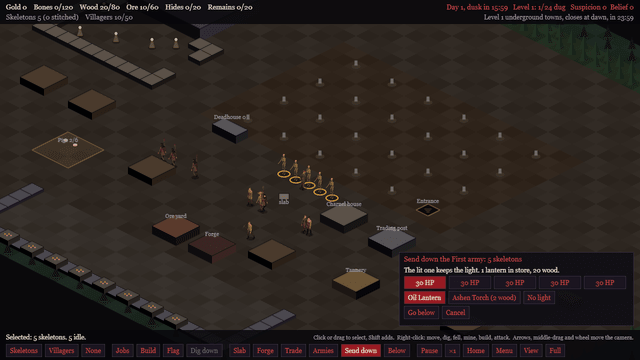
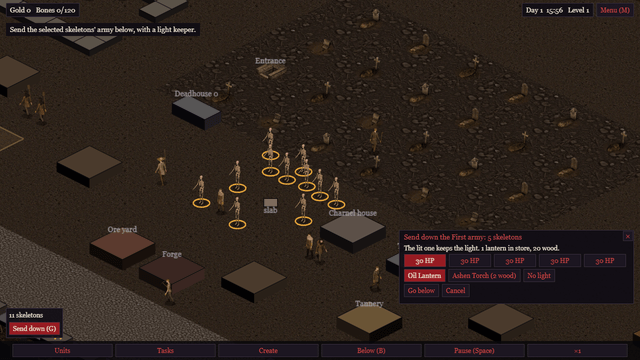
Deploy f018aec5708c08dd3b07fc4f0f6a0eebada5c874

diff --git a/build/assets/app-Bf8XTX0M.css b/build/assets/app-Bf8XTX0M.css
@@ -1,0 +1,1 @@
+:root{--color-bg:#0e0f13;--color-surface:#171922;--color-text:#e7e8ec;--color-text-muted:#9a9db0;--color-accent:#7c5cff;--color-border:#2a2d3a;--font-sans:system-ui, -apple-system, "Segoe UI", Roboto, sans-serif;--font-mono:"SFMono-Regular", Consolas, "Liberation Mono", Menlo, monospace;--max-width:72rem}*{box-sizing:border-box}body{background:var(--color-bg);color:var(--color-text);font-family:var(--font-sans);margin:0;line-height:1.6}a{color:var(--color-accent);text-decoration:none}a:hover{text-decoration:underline}h1,h2,h3{line-height:1.2}main{max-width:var(--max-width);margin:0 auto;padding:0 1.5rem 4rem}.site-nav{max-width:var(--max-width);flex-wrap:wrap;justify-content:space-between;align-items:center;gap:1rem;margin:0 auto;padding:1.5rem;display:flex}.site-nav__brand{font-family:var(--font-mono);color:var(--color-text);font-weight:700}.site-nav nav{flex-wrap:wrap;align-items:center;gap:1.5rem;display:flex}.site-nav__cta{border:1px solid var(--color-accent);border-radius:.4rem;padding:.4rem .9rem}.site-nav__admin{color:var(--color-text-muted);align-items:center;display:inline-flex}.site-nav__admin:hover{color:var(--color-accent)}.site-nav__toggle-input{display:none}.site-nav__toggle{cursor:pointer;flex-direction:column;justify-content:center;gap:.3rem;width:2.25rem;height:2.25rem;display:none}.site-nav__toggle span{background:var(--color-text);border-radius:1px;height:2px;display:block}@media (width<=40rem){.site-nav__toggle{display:flex}.site-nav nav{flex-direction:column;flex-basis:100%;order:3;align-items:flex-start;gap:1rem;padding-top:1rem;display:none}.site-nav__toggle-input:checked~nav{display:flex}}.button{border:1px solid var(--color-border);color:var(--color-text);border-radius:.4rem;padding:.7rem 1.4rem;font-weight:600;display:inline-block}.button:hover{border-color:var(--color-accent);text-decoration:none}.button--primary{background:var(--color-accent);border-color:var(--color-accent);color:#0e0f13}.hero{border-bottom:1px solid var(--color-border);grid-template-columns:3fr 2fr;align-items:center;gap:2rem;padding:4rem 0;display:grid}.hero__eyebrow{font-family:var(--font-mono);color:var(--color-accent);margin:0 0 .5rem}.hero h1{margin:0 0 1rem;font-size:clamp(2rem,5vw,3.5rem)}.hero__value-prop{color:var(--color-text-muted);max-width:40rem;margin:0 0 1.5rem}.hero__panel{font-family:var(--font-mono);background:var(--color-surface);border:1px solid var(--color-border);border-radius:.6rem;padding:1.25rem 1.5rem;font-size:.9rem}.hero__panel-title{color:var(--color-text-muted);margin:0 0 .75rem}.hero__panel-line{color:var(--color-accent);margin:.35rem 0}@media (width<=48rem){.hero{grid-template-columns:1fr;padding:2.5rem 0}.hero__panel{display:none}}.services__grid,.services-teaser__grid{grid-template-columns:repeat(auto-fit,minmax(16rem,1fr));gap:1.5rem;margin:2rem 0;display:grid}.service-card{background:var(--color-surface);border:1px solid var(--color-border);border-radius:.6rem;padding:1.5rem}.service-card__outcome{font-family:var(--font-mono);color:var(--color-text-muted);font-size:.85rem}.services-teaser{text-align:center;padding:3rem 0}.tech-stack__grid{grid-template-columns:repeat(auto-fit,minmax(12rem,1fr));gap:2rem;margin:2rem 0;display:grid}.tech-stack__category h2{font-family:var(--font-mono);color:var(--color-accent);font-size:1rem}.tech-stack__category ul{margin:0;padding:0;list-style:none}.tech-stack__category li{border-bottom:1px solid var(--color-border);padding:.25rem 0}.projects__grid{gap:2rem;margin:2rem 0;display:grid}.project-card{background:var(--color-surface);border:1px solid var(--color-border);border-radius:.6rem;padding:1.5rem}.project-card__images{grid-template-columns:repeat(auto-fit,minmax(10rem,1fr));gap:.75rem;margin:1rem 0;display:grid}.project-card__images picture{display:block}.project-card__images img{border:1px solid var(--color-border);cursor:zoom-in;border-radius:.4rem;width:100%;height:auto;display:block}.eyebrow{font-family:var(--font-mono);color:var(--color-accent);margin:0 0 .5rem;font-size:.9rem}.section-intro{max-width:48rem;margin:3rem 0 2rem}.section-intro h2{margin:0 0 .75rem;font-size:clamp(1.6rem,3.5vw,2.25rem)}.section-intro p{color:var(--color-text-muted)}.section-intro .section-intro__lead{color:var(--color-text);font-size:1.1rem}.game-card{--game-accent:var(--color-accent);background:var(--color-surface);border:1px solid var(--color-border);border-top:3px solid var(--game-accent);border-radius:.6rem;margin:0 0 3rem;scroll-margin-top:1.5rem;overflow:hidden}.game-card--tethered-darkness,.game-tile--tethered-darkness{--game-accent:#e9b44c}.game-card--village-of-suffering,.game-tile--village-of-suffering{--game-accent:#d9434d}.game-card--assimilate,.game-tile--assimilate{--game-accent:#a78bfa}.game-card--life-detected,.game-tile--life-detected{--game-accent:#ff8f3a}.game-card__cover{background:#000;margin:0}.game-card__cover img{cursor:zoom-in;width:100%;height:auto;display:block}.game-card figcaption{font-family:var(--font-mono);color:var(--color-text-muted);margin-top:.4rem;font-size:.8rem}.game-card__cover figcaption{background:var(--color-bg);border-bottom:1px solid var(--color-border);margin:0;padding:.6rem 1.75rem}.game-card__body{grid-template-columns:minmax(0,3fr) minmax(0,2fr);gap:2.5rem;padding:2rem 1.75rem;display:grid}.game-card__status{font-family:var(--font-mono);color:var(--color-text-muted);border:1px solid var(--color-border);border-radius:999px;align-items:center;gap:.5rem;margin:0 0 1rem;padding:.2rem .75rem;font-size:.8rem;display:inline-flex}.game-card__status:before,.game-tile__status:before{content:"";background:#4ade80;border-radius:50%;flex:none;width:.5rem;height:.5rem;box-shadow:0 0 .5rem #4ade80}.game-card__status--in-development:before,.game-tile__status--in-development:before{background:var(--game-accent);box-shadow:0 0 .5rem var(--game-accent)}.game-card h3{margin:0;font-size:clamp(1.75rem,4vw,2.5rem)}.game-card__genre{font-family:var(--font-mono);color:var(--game-accent);margin:.35rem 0 1.5rem}.game-card__hook{border-left:3px solid var(--game-accent);margin:0 0 1.5rem;padding-left:1rem}.game-card__hook p{color:var(--color-text);margin:0;font-size:1.2rem;font-style:italic;line-height:1.5}.game-card__pitch>p:not([class]){color:var(--color-text-muted)}.game-card__pitch .button{margin-top:.75rem}.button--game{background:var(--game-accent);border-color:var(--game-accent);color:#0e0f13}.button--game:hover{border-color:var(--color-text)}.game-card__features{align-content:start;gap:1.1rem;margin:0;padding:0;list-style:none;display:grid}.game-card__features li{border-left:1px solid var(--color-border);color:var(--color-text-muted);padding-left:1rem;font-size:.95rem}.game-card__features strong{color:var(--color-text);font-size:1rem;display:block}.game-card__gallery{grid-template-columns:repeat(auto-fit,minmax(13rem,1fr));gap:1.25rem;padding:0 1.75rem;display:grid}.game-card__gallery figure{margin:0}.game-card__gallery img{border:1px solid var(--color-border);cursor:zoom-in;border-radius:.4rem;width:100%;height:auto;display:block}.game-card__tech{background:var(--color-bg);border:1px solid var(--color-border);border-radius:.6rem;margin:2rem 1.75rem 1.75rem;padding:1.25rem 1.5rem}.game-card__tech h4{font-family:var(--font-mono);color:var(--game-accent);margin:0 0 .5rem;font-size:.85rem;font-weight:400}.game-card__tech p{color:var(--color-text-muted);margin:0;font-size:.95rem}@media (width<=48rem){.game-card__body{grid-template-columns:1fr;gap:2rem;padding:1.5rem 1.25rem}.game-card__cover figcaption,.game-card__gallery{padding-left:1.25rem;padding-right:1.25rem}.game-card__tech{margin:1.5rem 1.25rem 1.25rem}}.games-teaser{--game-accent:var(--color-accent);border-top:1px solid var(--color-border);text-align:center;padding:3rem 0}.games-teaser h2{margin:0 0 .75rem;font-size:clamp(1.6rem,3.5vw,2.25rem)}.games-teaser__lead{color:var(--color-text-muted);max-width:40rem;margin:0 auto}.games-teaser__grid{text-align:left;grid-template-columns:repeat(auto-fit,minmax(16rem,1fr));gap:1.5rem;margin:2rem 0;display:grid}.game-tile{background:var(--color-surface);border:1px solid var(--color-border);border-top:3px solid var(--game-accent);color:var(--color-text);border-radius:.6rem;flex-direction:column;transition:transform .15s,border-color .15s;display:flex;overflow:hidden}.game-tile:hover{border-color:var(--game-accent);text-decoration:none;transform:translateY(-2px)}.game-tile img{aspect-ratio:16/9;object-fit:cover;width:100%;height:auto;display:block}.game-tile__body{flex-direction:column;gap:.35rem;padding:1.1rem 1.25rem 1.4rem;display:flex}.game-tile__status{font-family:var(--font-mono);color:var(--color-text-muted);align-items:center;gap:.45rem;font-size:.75rem;display:inline-flex}.game-tile__name{font-size:1.3rem;font-weight:700;line-height:1.2}.game-tile__genre{font-family:var(--font-mono);color:var(--game-accent);font-size:.85rem}.game-tile__hook{color:var(--color-text-muted);margin-top:.4rem;font-size:.95rem;font-style:italic}@media (prefers-reduced-motion:reduce){.game-tile{transition:none}.game-tile:hover{transform:none}}.experience__grid{grid-template-columns:repeat(auto-fit,minmax(16rem,1fr));gap:1.5rem;margin:1.5rem 0 3rem;display:grid}.experience__years{font-family:var(--font-mono);color:var(--color-accent);margin-bottom:.5rem;font-size:.85rem;display:block}.experience__description{white-space:pre-line}.experience__courses{margin:1rem 0 0;padding:0;list-style:none}.experience__courses li{border-top:1px solid var(--color-border);padding:.5rem 0;font-size:.9rem}.experience__course-links{gap:.75rem;margin-left:.5rem;font-size:.8rem;display:inline-flex}.contact__direct-links{gap:1.5rem;margin-top:2rem;display:flex}.contact-form{flex-direction:column;gap:1.25rem;max-width:32rem;margin-top:2rem;display:flex}.contact-form__field{flex-direction:column;gap:.4rem;display:flex}.contact-form__field label{font-family:var(--font-mono);color:var(--color-text-muted);font-size:.85rem}.contact-form__field input,.contact-form__field textarea{background:var(--color-surface);border:1px solid var(--color-border);color:var(--color-text);border-radius:.4rem;padding:.6rem .8rem;font-family:inherit;font-size:1rem}.contact-form__field input:focus,.contact-form__field textarea:focus{border-color:var(--color-accent);outline:none}.contact-form button{cursor:pointer;align-self:flex-start}.contact-form__error{color:#ff6b6b;margin:0;font-size:.85rem}.contact-form__success{color:var(--color-accent);font-family:var(--font-mono);margin-top:2rem}.lightbox{z-index:100;cursor:zoom-out;background:#0e0f13e6;justify-content:center;align-items:center;display:flex;position:fixed;inset:0}.lightbox__figure{cursor:default;flex-direction:column;align-items:center;gap:.75rem;margin:0;display:flex}.lightbox__image{border:1px solid var(--color-border);border-radius:.4rem;max-width:90vw;max-height:80vh}.lightbox__caption{max-width:min(90vw,48rem);font-family:var(--font-mono);color:var(--color-text-muted);text-align:center;font-size:.85rem}.lightbox__close{border:1px solid var(--color-border);color:var(--color-text);cursor:pointer;background:0 0;border-radius:50%;width:2.5rem;height:2.5rem;font-size:1.5rem;line-height:1;position:absolute;top:1.5rem;right:1.5rem}.admin__links{gap:1rem;margin:1.5rem 0;display:flex}.admin__list{flex-direction:column;gap:1rem;margin:2rem 0;display:flex}.admin__row{background:var(--color-surface);border:1px solid var(--color-border);border-radius:.6rem;flex-wrap:wrap;justify-content:space-between;align-items:center;gap:1rem;padding:1rem 1.5rem;display:flex}.admin__row-actions{align-items:center;gap:1rem;display:flex}.admin__delete-button{color:#ff6b6b;cursor:pointer;font:inherit;background:0 0;border:none;padding:0;text-decoration:underline}.admin__links-inline{gap:1rem;margin-top:.35rem;font-size:.85rem;display:flex}.admin form{max-width:32rem;margin:1.5rem 0}.admin form>div{margin-bottom:1.25rem}.admin form label{font-family:var(--font-mono);color:var(--color-text-muted);margin-bottom:.4rem;font-size:.85rem;display:block}.admin form input,.admin form textarea{background:var(--color-bg);border:1px solid var(--color-border);width:100%;color:var(--color-text);border-radius:.4rem;padding:.6rem .8rem;font-family:inherit;font-size:1rem}.admin form input:focus,.admin form textarea:focus{border-color:var(--color-accent);outline:none}.admin form .form-help,.admin form small{color:var(--color-text-muted);margin-top:.3rem;font-size:.8rem;display:block}.admin form ul{color:#ff6b6b;margin:.3rem 0 0;padding-left:1.2rem;font-size:.85rem}.admin form button{margin-top:.5rem}.site-footer{border-top:1px solid var(--color-border);max-width:var(--max-width);text-align:center;color:var(--color-text-muted);margin:0 auto;padding:2rem 1.5rem}.site-footer__social,.site-footer__projects{flex-wrap:wrap;justify-content:center;gap:1.5rem;margin-bottom:.75rem;display:flex}.site-footer__copyright{font-family:var(--font-mono);margin:0;font-size:.8rem}

diff --git a/src/Content/PortfolioContent.php b/src/Content/PortfolioContent.php
@@ -110,7 +110,7 @@ class PortfolioContent
                 'name' => 'Tethered Darkness',
                 'genre' => 'Gothic horror JRPG',
                 'status' => 'playable',
-                'statusLabel' => 'Playable now: regions 1–4 of 6',
+                'statusLabel' => 'Playable now: start to finish, final art in progress',
                 'hook' => 'Every grave in Hollowmere has a lantern, and the lanterns keep the dead below. Tonight they are going out.',
                 'pitch' => [
                     'A disgraced knight, an occultist and a church cantor are left on a fen jetty by a ferryman who won\'t wait. Up in Broodhollow the churchyard lanterns are dying, the dead are climbing out, and somewhere beneath the water a drowned bell screams each time another light fails. They follow the sound down.',
@@ -121,18 +121,19 @@ class PortfolioContent
                     ['title' => 'Real-time turn gauges', 'body' => 'Heroes and monsters fill their gauges in real time, so hesitating in a menu is a decision too.'],
                     ['title' => 'Learn from the dead', 'body' => 'The cantor Absorbs enemies to learn their skills and fill in the bestiary, the occultist steals, and the knight takes the hit for whoever needs it.'],
                     ['title' => 'No random battles', 'body' => 'Every enemy is on the map. Slip past the fights you don\'t want, or pick them for what they carry.'],
-                    ['title' => 'Secrets worth the dark', 'body' => 'Each of the first five regions hides an optional dungeon with a charm at the bottom. Find all five and the ending changes.'],
+                    ['title' => 'Six regions down', 'body' => 'From the fens through frozen wastes, jagged peaks, a sunless chasm and a foundry of lava, then back through a portal to a Hollowmere gone wrong, and down to whatever has been ringing.'],
+                    ['title' => 'Five endings', 'body' => 'At the bottom, a choice: silence the bell, or relight every lantern and choose who stays below to tend them. Each of the first five regions hides an optional dungeon with a charm, and finding all five changes what that choice costs.'],
                     ['title' => 'Plays anywhere', 'body' => 'Keyboard, gamepad or a touch D-pad on your phone, with cloud saves across three slots.'],
                 ],
-                'tech' => 'TypeScript, Phaser 4 and Vite, with every enemy, skill and item in JSON checked by Zod, and branching dialogue written in Ink. The battle engine is pure TypeScript with a seeded random generator and no Phaser imports, so a headless simulator can play any encounter thousands of times to balance it. Accounts and cloud saves run on a small Symfony 8.1 API with MySQL, and every green push to main deploys itself through GitHub Actions.',
+                'tech' => 'TypeScript, Phaser 4 and Vite, with every enemy, skill and item in JSON checked by Zod, and branching dialogue written in Ink. The battle engine is pure TypeScript with a seeded random generator and no Phaser imports, so a headless simulator can play any encounter thousands of times, and a route tool plays each region in story order, carrying levels, gear and items from fight to fight, to balance every boss against the level a player really arrives at. Accounts and cloud saves run on a small Symfony 8.1 API with MySQL, and every green push to main deploys itself through GitHub Actions.',
                 'url' => 'https://tethered-darkness.proprietary-data.com',
                 'cta' => 'Play Tethered Darkness',
                 'images' => [
                     ['path' => 'images/portfolio/tethered-darkness/mire-widow.png', 'width' => 640, 'height' => 360, 'caption' => 'The first boss, the Mire Widow, with the party\'s turn gauges filling on the right.'],
                     ['path' => 'images/portfolio/tethered-darkness/ferryman.png', 'width' => 640, 'height' => 360, 'caption' => 'Hollowmere Marsh: the ferryman leaves the party with lamp oil and a warning.'],
-                    ['path' => 'images/portfolio/tethered-darkness/drowned-churchyard.png', 'width' => 640, 'height' => 360, 'caption' => 'The Drowned Churchyard: ghouls and a lantern-bearing ghost.'],
-                    ['path' => 'images/portfolio/tethered-darkness/marsh-path.png', 'width' => 640, 'height' => 360, 'caption' => 'The marsh path at night, lit only by what the lanterns reach.'],
-                    ['path' => 'images/portfolio/tethered-darkness/title-screen.png', 'width' => 640, 'height' => 360, 'caption' => 'The title screen.'],
+                    ['path' => 'images/portfolio/tethered-darkness/crowned-furnace.png', 'width' => 640, 'height' => 360, 'caption' => 'Region 5, the Abyssal Foundry: the Crowned Furnace rises out of the magma in the Crucible.'],
+                    ['path' => 'images/portfolio/tethered-darkness/drowned-church.png', 'width' => 640, 'height' => 360, 'caption' => 'The Drowned Church, a church under the church, on the way down to the end.'],
+                    ['path' => 'images/portfolio/tethered-darkness/the-bell.png', 'width' => 640, 'height' => 360, 'caption' => 'The last battle: the Bell, hanging in its chains over black water.'],
                 ],
             ],
             [
@@ -152,41 +153,73 @@ class PortfolioContent
                     ['title' => 'Bring your own light', 'body' => 'Armies below see only by their light keeper\'s torch or lantern. Lose it and your skeletons fight half-blind.'],
                     ['title' => 'Trouble from above', 'body' => 'The church next door is watching. Dig up too many of its dead and suspicion becomes a mob, while the Red Cardinal steals corpses from your ranks.'],
                     ['title' => 'Every villager counts', 'body' => 'One small pool of villagers is split across eight jobs each dawn. The dead never come back, but they rise into your army with a perk from the trade they died in.'],
-                    ['title' => 'Phone-ready', 'body' => 'Play with a mouse, or on a phone held sideways with tap, drag, pinch and box-select.'],
+                    ['title' => 'Loot worth going deeper for', 'body' => 'Four tiers of every weapon and armour piece at the forge, gems with rolled affixes from the deepest lairs and sockets to set them in, and a trading post that sells on credit until dawn.'],
+                    ['title' => 'Teaches itself, plays anywhere', 'body' => 'A guide takes new players through their first three days a prompt at a time, then first-time hints take over. Play with a mouse, or on a phone held sideways with tap, drag, pinch and box-select, on Gentle, Grim or Merciless.'],
                 ],
-                'tech' => 'TypeScript and Phaser 4 over a simulation in plain TypeScript that runs on a fixed tick with a seeded random generator, so any fight can be replayed exactly. Isometric is only how it\'s drawn: the rules work on a simple grid with A* pathfinding. Bones, organs, demons and difficulty all live in JSON, and a scripted player plays whole seasons inside the test suite to check the balance. The art pipeline renders characters from 3D models in Blender as separate layers (bones, flesh, armour, weapons) in eight directions and stacks them at runtime, the way Diablo II did. Saves use the same Symfony API as Tethered Darkness.',
+                'tech' => 'TypeScript and Phaser 4 over a simulation in plain TypeScript that runs on a fixed tick with a seeded random generator, so any fight can be replayed exactly. Isometric is only how it\'s drawn: the rules work on a simple grid with A* pathfinding. Bones, organs, demons, gear and difficulty all live in JSON, and a scripted player plays whole seasons on every difficulty inside the test suite to check the balance. The art pipeline renders characters from 3D models in Blender as separate layers (bones, flesh, armour, weapons) in eight directions and stacks them at runtime, the way Diablo II did, while the village itself is painted in ComfyUI over Blender blockouts. Saves use the same Symfony API as Tethered Darkness.',
                 'url' => 'https://village-of-suffering.proprietary-data.com',
                 'cta' => 'Play The Village of Suffering',
                 'images' => [
                     ['path' => 'images/portfolio/village-of-suffering/concept-art.png', 'width' => 640, 'height' => 322, 'caption' => 'Concept art, made locally with SDXL: the army, the demons, the plague doctor, the Red Cardinal, a necromancer and the graveyard.'],
-                    ['path' => 'images/portfolio/village-of-suffering/send-down.png', 'width' => 640, 'height' => 360, 'caption' => 'The playable build: fitting the first army with a lantern before sending it below.'],
-                    ['path' => 'images/portfolio/village-of-suffering/dawn-jobs.png', 'width' => 640, 'height' => 360, 'caption' => 'Dawn of day one: who digs, who fetches the dead, who works the forge.'],
-                    ['path' => 'images/portfolio/village-of-suffering/places-below.png', 'width' => 640, 'height' => 322, 'caption' => 'Concept art for the places below and around the village: caves, dungeons, catacombs, the hellish depths, the church and the forge.'],
+                    ['path' => 'images/portfolio/village-of-suffering/send-down.png', 'width' => 640, 'height' => 360, 'caption' => 'The playable build: fitting the first army with a lantern before sending it below, on the newly painted graveyard.'],
+                    ['path' => 'images/portfolio/village-of-suffering/night-graveyard.png', 'width' => 640, 'height' => 360, 'caption' => 'Night one: gravediggers at work by lantern light, with the first skeletons standing by.'],
+                    ['path' => 'images/portfolio/village-of-suffering/dawn-jobs.png', 'width' => 640, 'height' => 360, 'caption' => 'Dawn of day one: who digs, who fetches the dead, who works the forge and who trades.'],
                     ['path' => 'images/portfolio/village-of-suffering/skeleton-layers.png', 'width' => 640, 'height' => 240, 'caption' => 'The Blender sprite test: one skeleton in eight directions, with armour and weapons swapped in as layers.'],
+                ],
+            ],
+            [
+                'slug' => 'assimilate',
+                'name' => 'Assimilate',
+                'genre' => 'Physics merge puzzler',
+                'status' => 'playable',
+                'statusLabel' => 'Playable now: final art and sound to come',
+                'hook' => 'Two of a kind that touch assimilate into the next thing up. It\'s fifteen steps from a heart to Nanna.',
+                'pitch' => [
+                    'Drop things into the jar. Two of a kind that touch become one of the next thing up: hearts into leaves, kiwis into cats, cats into things with too many eyes, all the way up to Nanna. The pile only grows, and the run is over when it stays above the line for two seconds.',
+                    'It\'s the merge game you know, with rot in it. Anything left a minute lights a fuse and burns out into a dead black block, and a black block left five minutes explodes and throws the jar about. You can\'t nurse one old stack for ever: the longer a piece sits, the more of a problem it becomes.',
+                ],
+                'features' => [
+                    ['title' => 'Fifteen tiers', 'body' => 'A heart, cannabis leaves, a kiwi, four breeds of cat and some grotesques, up through the Assimilator to Nanna. Merge two Nannas and both vanish for a bonus.'],
+                    ['title' => 'Fuses and black blocks', 'body' => 'Pieces age from the moment they land. Merge one before its fuse runs out or it dies as a black block, which only merges with another of its kind to come back to life.'],
+                    ['title' => 'Explosions', 'body' => 'A black block left five minutes goes off, scoring nothing and throwing everything near it outward, sometimes over the line.'],
+                    ['title' => 'Chains that pop', 'body' => 'Each merge within 0.6 seconds of the last builds a combo worth up to three times the points, and bigger merges pop harder, shoving the pile into a new shape.'],
+                    ['title' => 'One thumb', 'body' => 'A portrait game made for phones: aim and drop with a thumb, a mouse or the keys.'],
+                ],
+                'tech' => 'TypeScript and Phaser 3 for drawing, input and scaling, over a rules engine in plain TypeScript on Matter.js, used directly rather than through Phaser\'s plugin, so Vitest plays whole runs headless and any run replays from its seed. Merges are found by measuring after each physics step instead of waiting for collision events, because Matter\'s circles are polygons that can rest a pixel apart while looking touching. Every tuning value lives in one file, with a bot playing seeded runs at three paces to tune it. The placeholder art is fifteen subjects drawn in code as SVG and packed into a WebP atlas, the sound and music are synthesised with Web Audio, and every green push deploys itself.',
+                'url' => 'https://assimilate.proprietary-data.com',
+                'cta' => 'Play Assimilate',
+                'images' => [
+                    ['path' => 'images/portfolio/assimilate/a-run.png', 'width' => 640, 'height' => 360, 'caption' => 'Three moments on the live build: aiming at a match, two Tentacles assimilating into a Siamese, and the jar overflowing.'],
+                    ['path' => 'images/portfolio/assimilate/black-blocks.png', 'width' => 640, 'height' => 360, 'caption' => 'The Siamese\'s fuse is nearly out (the red arc), and the pieces around it have already died as black blocks, each with five minutes on its clock.'],
+                    ['path' => 'images/portfolio/assimilate/fifteen-tiers.png', 'width' => 640, 'height' => 424, 'caption' => 'All fifteen tiers, from a heart to Nanna: placeholder art drawn in code, each subject on a disc of its own colour so it still reads at 28 pixels.'],
                 ],
             ],
             [
                 'slug' => 'life-detected',
                 'name' => 'Life Detected',
-                'genre' => 'Retro-plus first-person shooter',
+                'genre' => 'Sci-fi horror first-person shooter',
                 'status' => 'in-development',
-                'statusLabel' => 'In development: building the first level',
+                'statusLabel' => 'In development: the first level is playable',
                 'hook' => 'A motion tracker you listen to, and corridors darker than they should be.',
                 'pitch' => [
                     'You hear it before you see it. The tracker sweeps once a second, and every ping shows movement, never walls: something is in here with you, and you can\'t tell where the room ends. Creatures give themselves away by sound first, so the audio isn\'t decoration. It\'s the level design.',
-                    'It\'s built the way the best mid-90s shooters were, where every level has a job to do, not just an exit to find: get the keycard, destroy the nest, bring the survivors out, with a briefing going in and a tally on the way out. Low-poly models under modern lighting keep that 1996 feel, and the shadows do the frightening.',
+                    'It\'s built the way the best mid-90s shooters were, where every level has a job to do, not just an exit to find: get the keycards, destroy the nests, bring the survivors out, with a briefing going in and a tally on the way out. The look aims well past the era: sculpted creatures, scanned materials and a torch that throws real shadows, somewhere between Doom 3 and the 2016 Doom.',
                 ],
                 'features' => [
-                    ['title' => 'The motion tracker', 'body' => 'A sweep and a ping every second, with blips fading between sweeps, so you\'re always acting on a picture that\'s already out of date.'],
-                    ['title' => 'Objectives, not just exits', 'body' => 'Two to four objectives per level, from keycards to nests to rescues, with progress you can check mid-mission.'],
+                    ['title' => 'The motion tracker', 'body' => 'A sweep and a ping every second, with blips fading between sweeps, so you\'re always acting on a picture that\'s already out of date. Hold it up and the gun goes away.'],
+                    ['title' => 'Objectives, not just exits', 'body' => 'Two to four objectives per level, with progress you can check mid-mission. The first wants two keycards found and sixteen sacs destroyed before the exit lets you leave.'],
+                    ['title' => 'Things that hatch', 'body' => 'Sacs rooted into the floor open as you come near and hatch a parasite that leaps for you. Grunts, flayed miners, hunt you through the corridors and open doors.'],
                     ['title' => 'Your torch is the main light', 'body' => 'A shadow-casting flashlight, fog and glow over corridors that are dark on purpose.'],
-                    ['title' => 'Instant to play', 'body' => 'Runs in the browser with the first level under 15 MB, on WebGPU where it\'s available and WebGL 2 everywhere else.'],
+                    ['title' => 'Instant to play', 'body' => 'Runs in the browser on WebGPU where it\'s available and WebGL 2 everywhere else, with keyboard and mouse or a gamepad.'],
                 ],
-                'tech' => 'Three.js with its WebGPU renderer and automatic WebGL 2 fallback, over a pure TypeScript engine stepping at a fixed 60 Hz with a seeded random generator, so Vitest can play whole levels with no browser at all. Hand-built grid levels in JSON checked by Zod, grid collision and A* for the creatures, and a scripted Blender and ComfyUI pipeline for the corridor kit and textures, compressed with meshopt and KTX2. One finished level goes in front of playtesters before the campaign gets built.',
+                'tech' => 'Three.js with its WebGPU renderer and automatic WebGL 2 fallback, over a pure TypeScript engine stepping at a fixed 60 Hz with a seeded random generator, so a Vitest bot plays the first level from briefing to tally with no browser at all. Hand-built grid levels in JSON checked by Zod, and grid collision and A* for the creatures. The grunt is sculpted by script on a MakeHuman body in Blender, baked onto a game mesh with normal maps and rigged; the walls and floors are scanned CC0 materials packed as KTX2. The first level goes in front of playtesters before the campaign gets built.',
                 'url' => 'https://life-detected.proprietary-data.com',
-                'cta' => 'See the holding page',
+                'cta' => 'Play the first level',
                 'images' => [
-                    ['path' => 'images/portfolio/life-detected/holding-page.png', 'width' => 640, 'height' => 195, 'caption' => 'The holding page, while the motion tracker is still calibrating.'],
+                    ['path' => 'images/portfolio/life-detected/grunt-lunges.png', 'width' => 640, 'height' => 360, 'caption' => 'The grunt, remade: a flayed miner sculpted on a MakeHuman body, lunging out of the dark.'],
+                    ['path' => 'images/portfolio/life-detected/north-lamp.png', 'width' => 640, 'height' => 360, 'caption' => 'A grunt waiting under a ceiling lamp in the derelict lab.'],
+                    ['path' => 'images/portfolio/life-detected/tracker.png', 'width' => 640, 'height' => 360, 'caption' => 'Tracker up, gun away: the blip is a metre off, and the screen is already red.'],
+                    ['path' => 'images/portfolio/life-detected/briefing.png', 'width' => 640, 'height' => 360, 'caption' => 'The briefing: two keycards, sixteen sacs, then the exit.'],
                 ],
             ],
         ];

diff --git a/vendor/composer/installed.php b/vendor/composer/installed.php
@@ -3,7 +3,7 @@
         'name' => '__root__',
         'pretty_version' => 'dev-main',
         'version' => 'dev-main',
-        'reference' => '4badf1b4afa600c90574eb27dbc3a1c1fe94e364',
+        'reference' => 'f018aec5708c08dd3b07fc4f0f6a0eebada5c874',
         'type' => 'project',
         'install_path' => __DIR__ . '/../../',
         'aliases' => array(),
@@ -13,7 +13,7 @@
         '__root__' => array(
             'pretty_version' => 'dev-main',
             'version' => 'dev-main',
-            'reference' => '4badf1b4afa600c90574eb27dbc3a1c1fe94e364',
+            'reference' => 'f018aec5708c08dd3b07fc4f0f6a0eebada5c874',
             'type' => 'project',
             'install_path' => __DIR__ . '/../../',
             'aliases' => array(),
